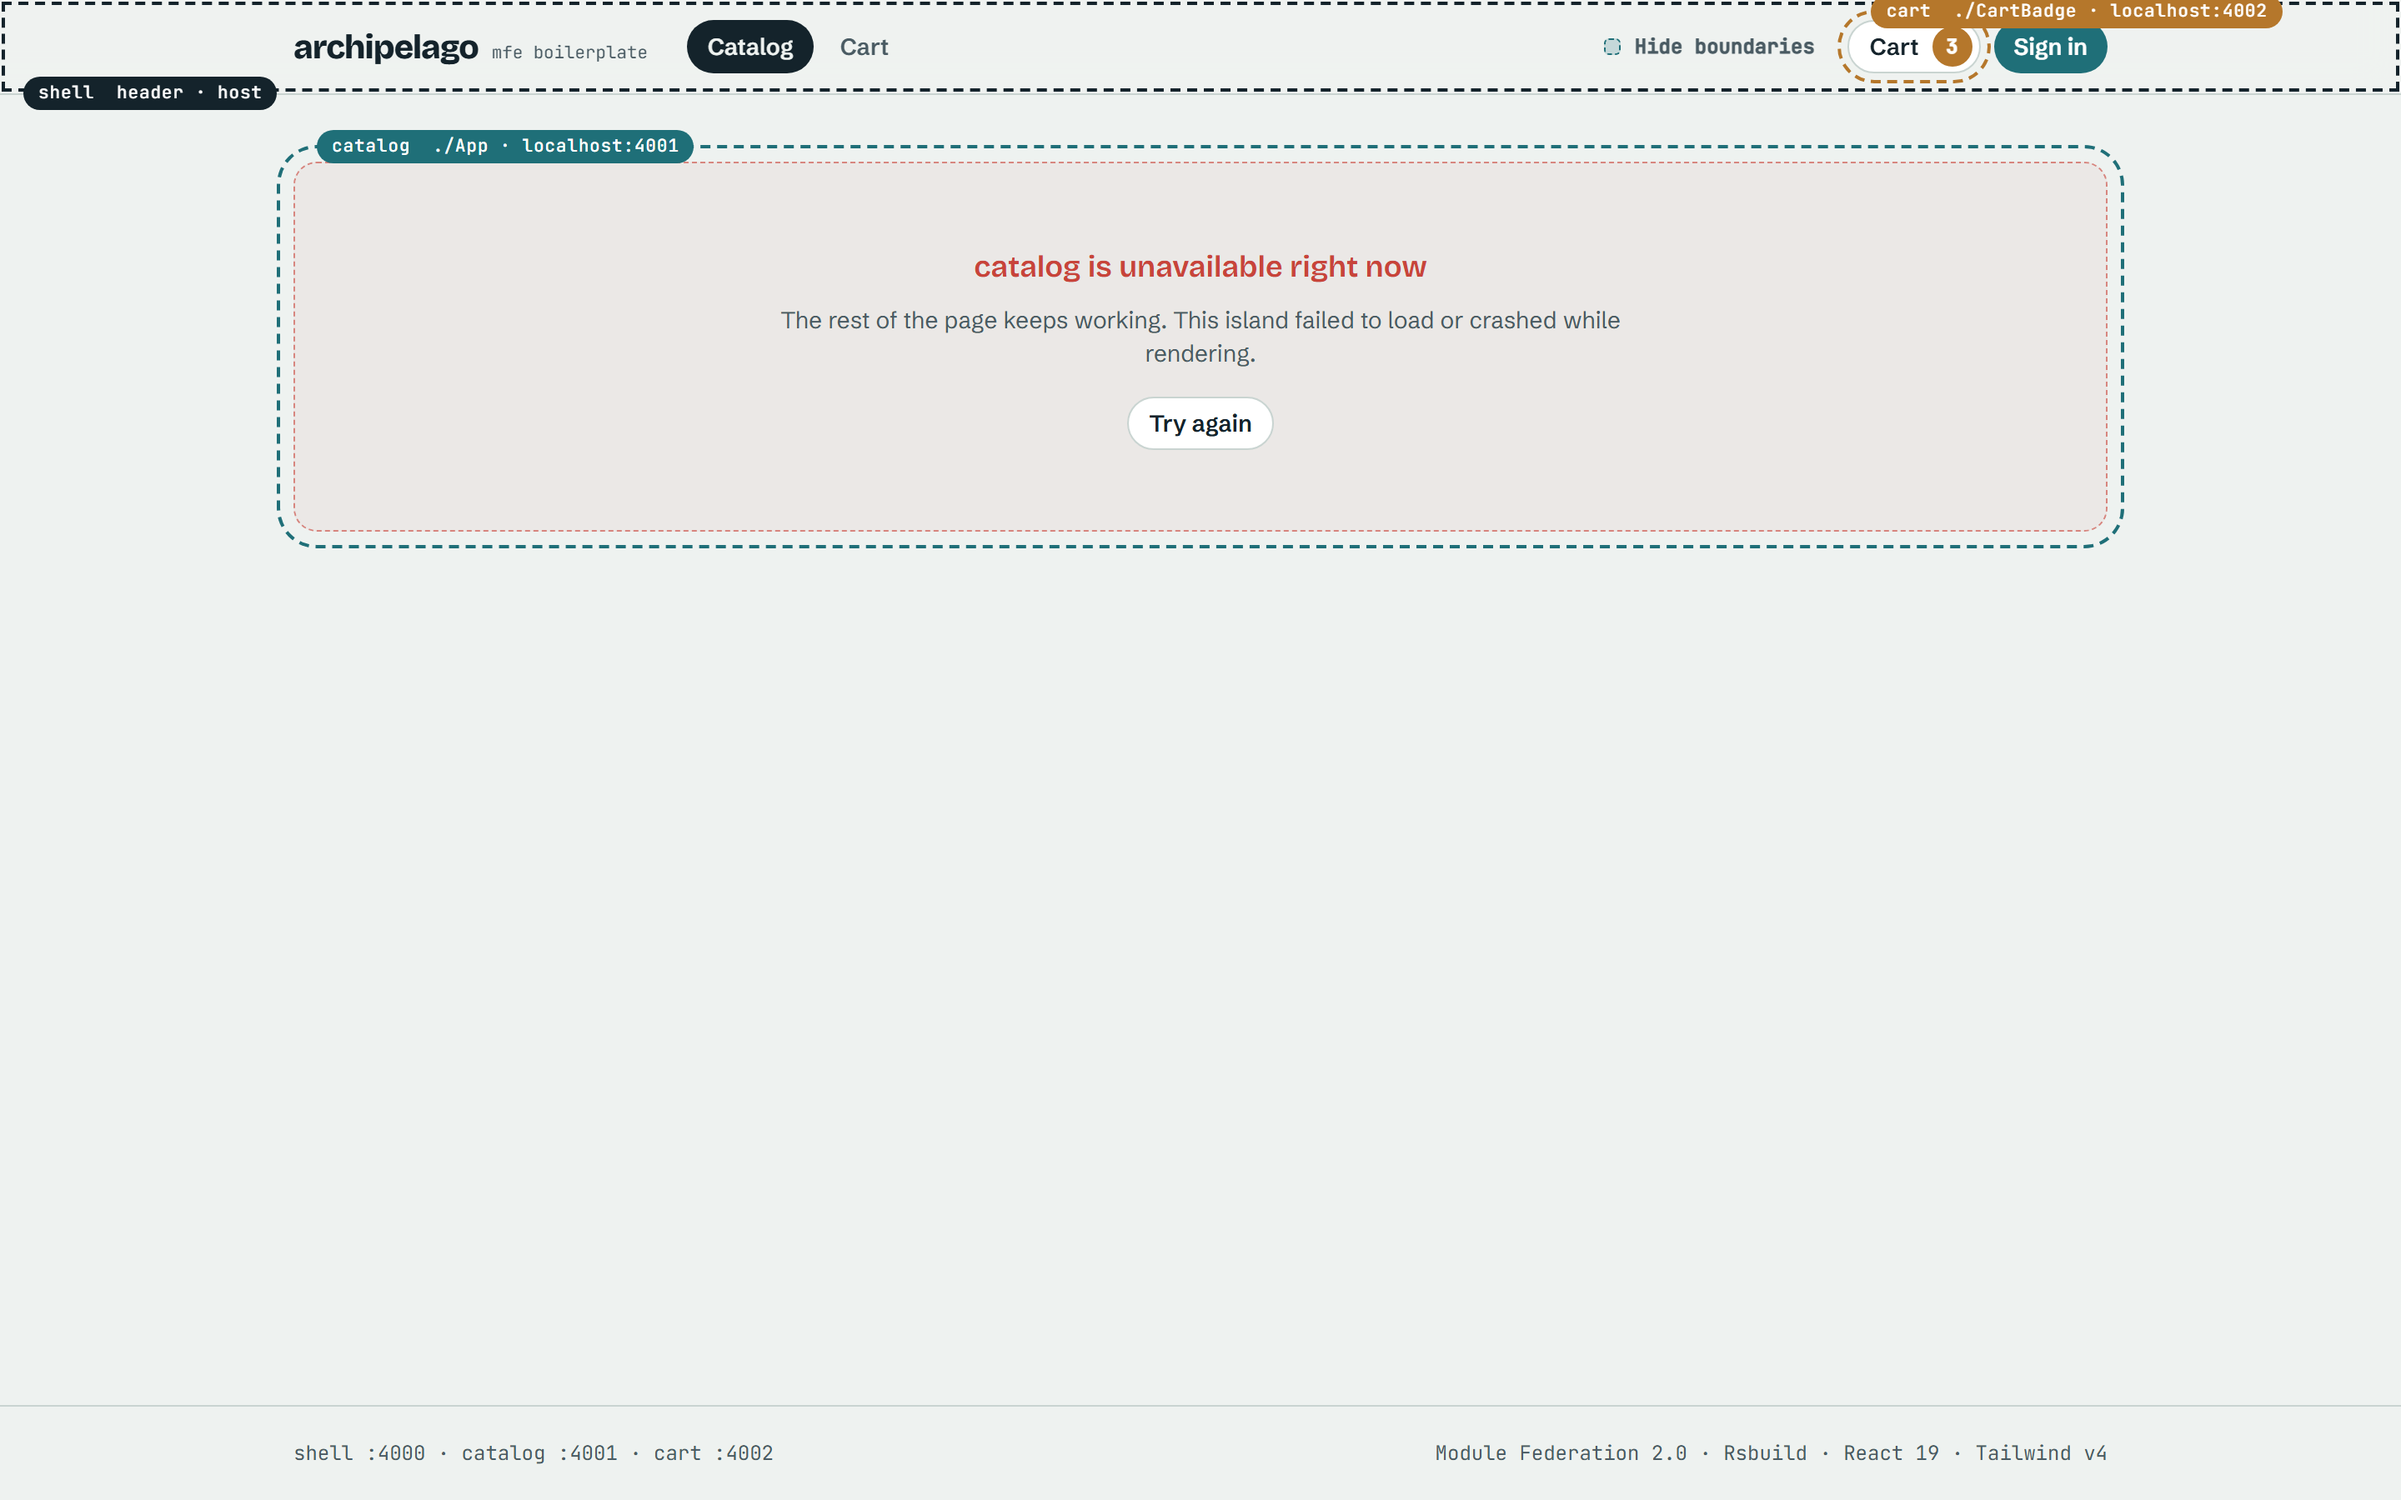
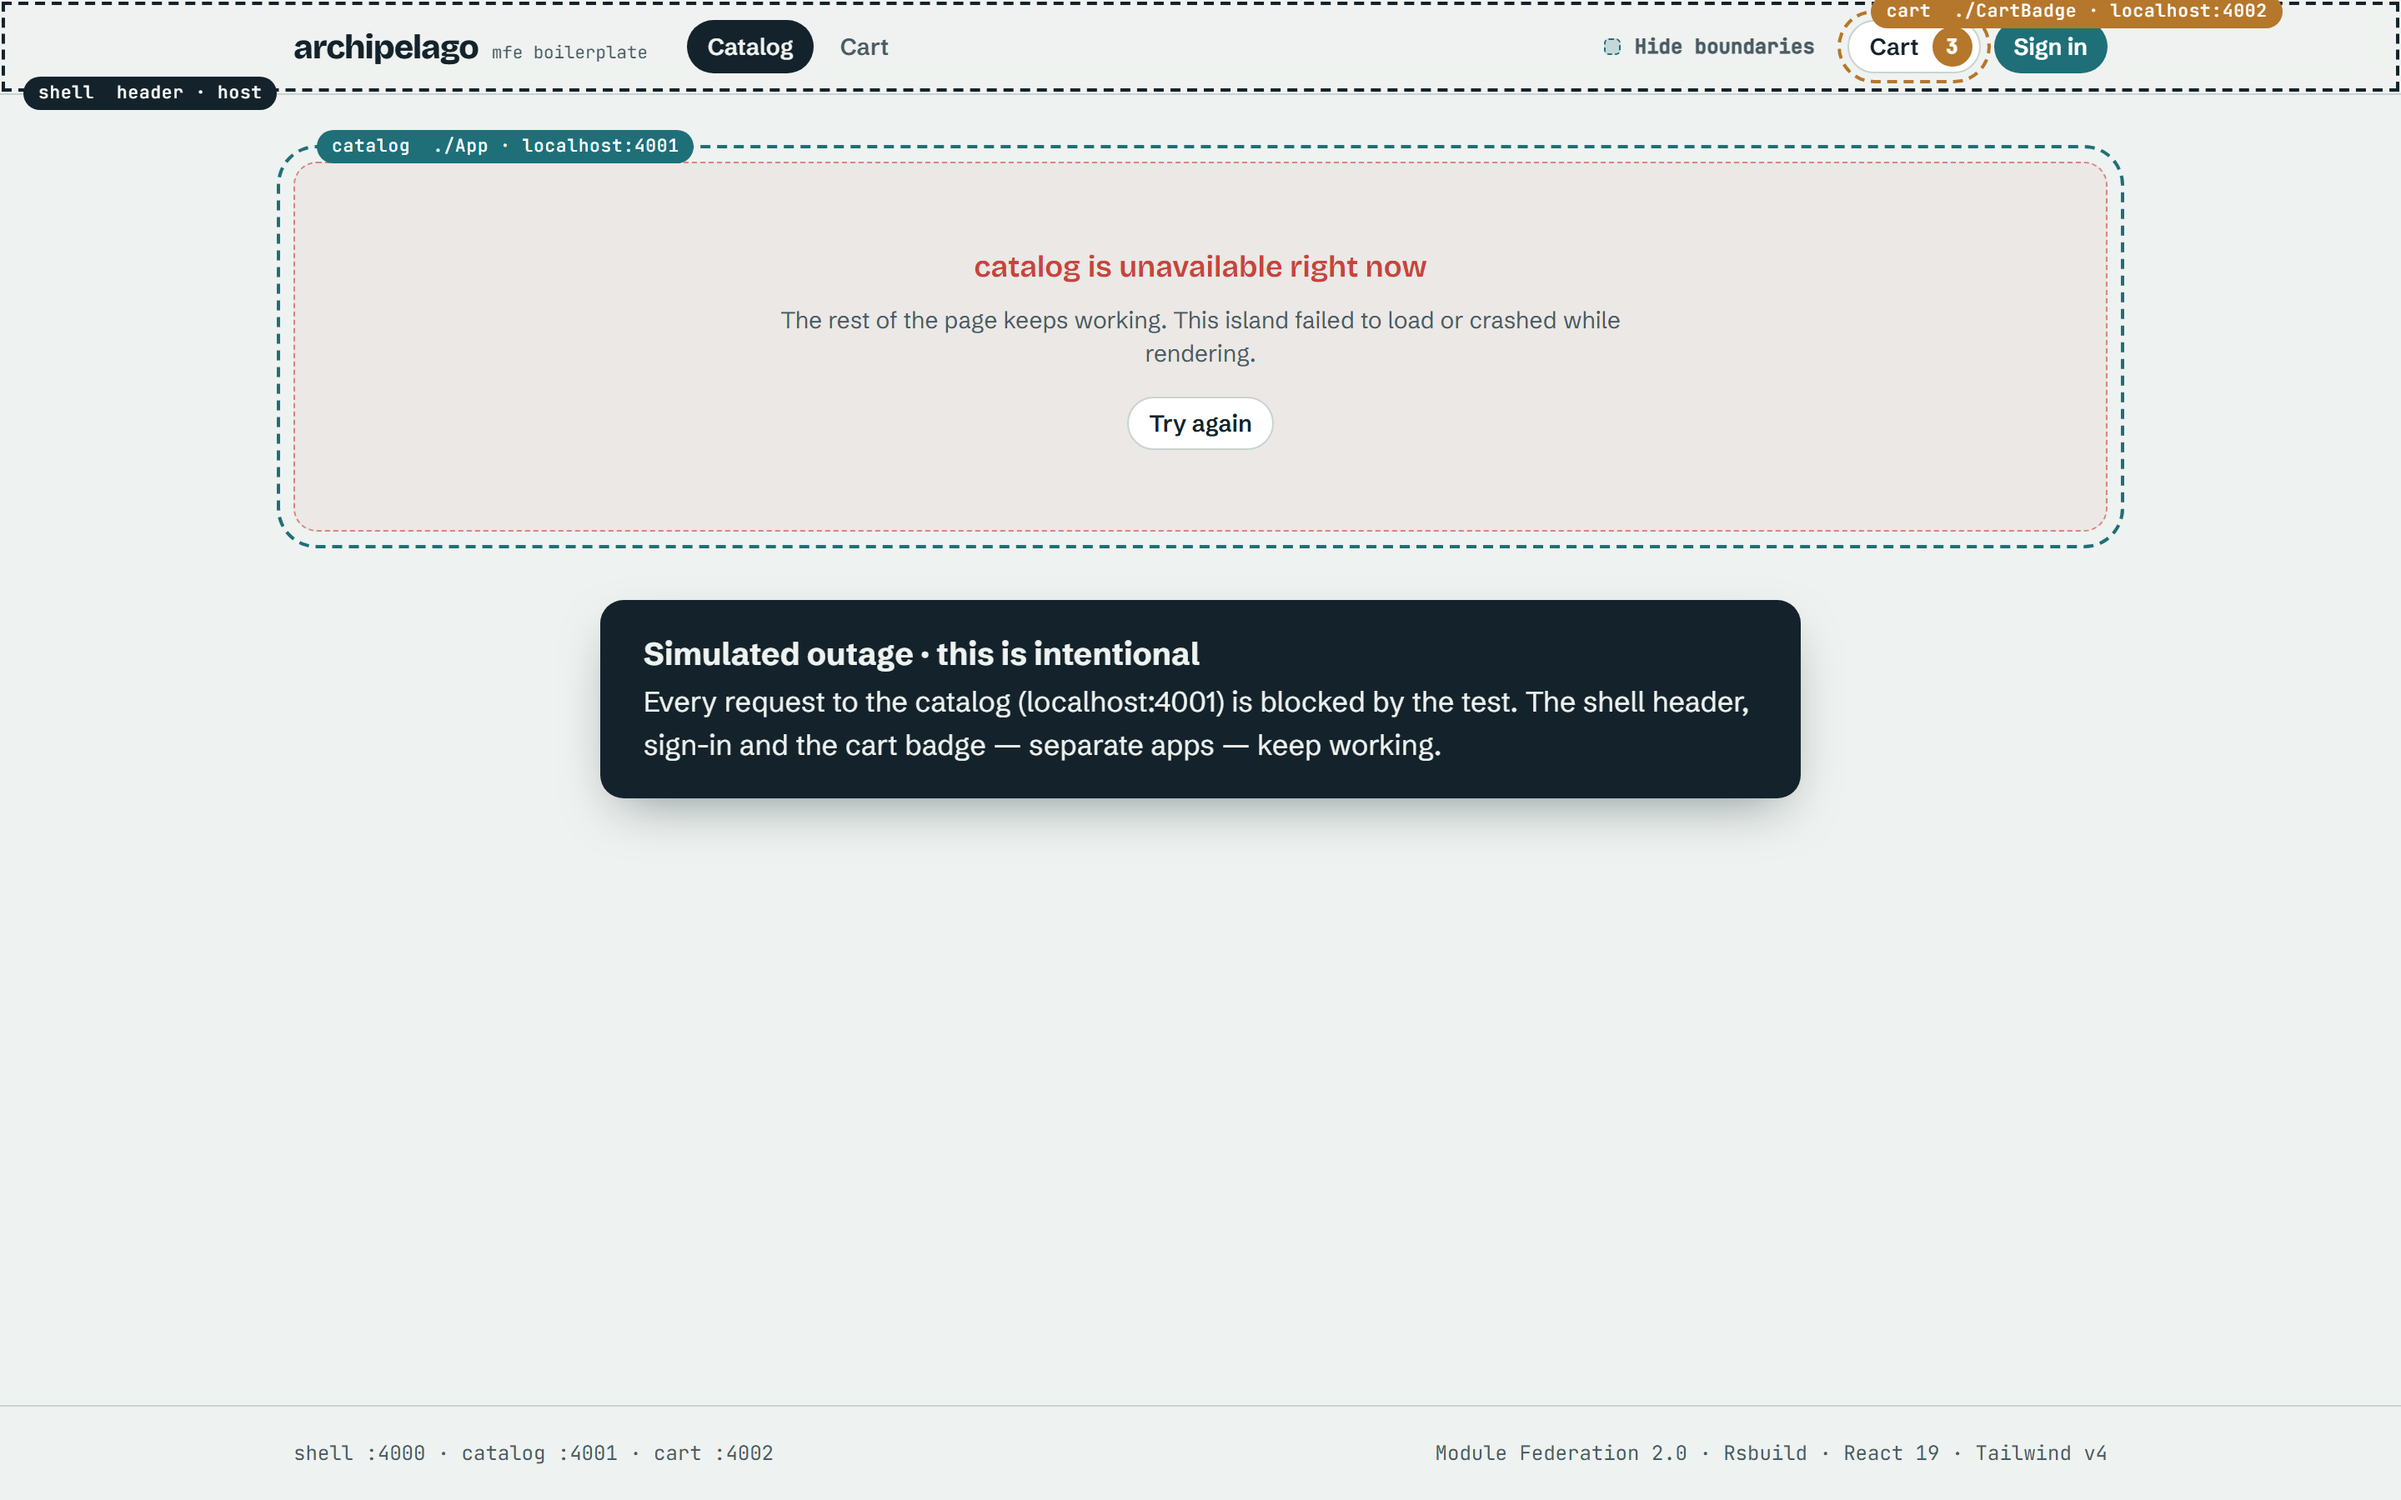
initial commit

Changed region(s): [[0.25, 0.3733, 0.75, 0.56]]

diff --git a/e2e/screenshots.spec.ts b/e2e/screenshots.spec.ts
@@ -50,6 +50,31 @@ test('resilience', async ({ page }) => {
   await page.goto('/catalog');
   await expect(page.getByRole('alert')).toBeVisible();
   await expect(page.getByTestId('cart-count')).toHaveText('3');
+
+  // Anotação só para a imagem: deixa claro que a falha é SIMULADA de propósito.
+  await page.evaluate(() => {
+    const note = document.createElement('div');
+    note.innerHTML =
+      '<strong style="display:block;font:700 19px var(--font-sans);margin-bottom:4px">Simulated outage · this is intentional</strong>' +
+      'Every request to the catalog (localhost:4001) is blocked by the test. ' +
+      'The shell header, sign-in and the cart badge — separate apps — keep working.';
+    Object.assign(note.style, {
+      position: 'fixed',
+      left: '50%',
+      top: '360px',
+      transform: 'translateX(-50%)',
+      maxWidth: '720px',
+      padding: '20px 26px',
+      borderRadius: '14px',
+      background: 'var(--color-ink)',
+      color: 'var(--color-mist)',
+      font: '400 17px/1.5 var(--font-sans)',
+      boxShadow: '0 12px 32px -12px rgb(20 35 43 / 0.5)',
+      zIndex: '100',
+    });
+    document.body.append(note);
+  });
+
   await page.evaluate(() => document.fonts.ready);
   await page.screenshot({ path: out('resilience') });
 });

diff --git a/README.pt-BR.md b/README.pt-BR.md
@@ -31,9 +31,13 @@ Clone, renomeie, apague os domínios de exemplo e fique com a arquitetura.
 
 > Clique em **Show boundaries** no header para ver qual app é dono de cada parte da página.
 
-| Home                            | Carrinho                            | Catálogo fora do ar, página de pé                      |
-| ------------------------------- | ----------------------------------- | ------------------------------------------------------ |
-| ![Home](./docs/assets/home.png) | ![Carrinho](./docs/assets/cart.png) | ![Catálogo indisponível](./docs/assets/resilience.png) |
+| Home                            | Carrinho                            | Falha simulada: catálogo bloqueado de propósito                                              |
+| ------------------------------- | ----------------------------------- | -------------------------------------------------------------------------------------------- |
+| ![Home](./docs/assets/home.png) | ![Carrinho](./docs/assets/cart.png) | ![Catálogo bloqueado de propósito; o resto da página funciona](./docs/assets/resilience.png) |
+
+A terceira imagem é um **teste de falha, não um bug**: o servidor do catálogo é bloqueado de
+propósito para mostrar que só a área dele falha, enquanto o shell e o carrinho continuam
+funcionando. Faça o teste você mesmo em [docs/07-resiliencia.md](./docs/07-resiliencia.md).
 
 ## Sumário
 

diff --git a/README.md b/README.md
@@ -30,9 +30,13 @@ Clone it, rename it, delete the demo domains and keep the architecture.
 
 > Press **Show boundaries** in the header to see which app owns each part of the page.
 
-| Home                                 | Cart                                 | Catalog down, page still up                                |
-| ------------------------------------ | ------------------------------------ | ---------------------------------------------------------- |
-| ![Home page](./docs/assets/home.png) | ![Cart page](./docs/assets/cart.png) | ![Catalog unavailable state](./docs/assets/resilience.png) |
+| Home                                 | Cart                                 | Simulated outage: catalog blocked on purpose                                                     |
+| ------------------------------------ | ------------------------------------ | ------------------------------------------------------------------------------------------------ |
+| ![Home page](./docs/assets/home.png) | ![Cart page](./docs/assets/cart.png) | ![Catalog intentionally blocked; the rest of the page still works](./docs/assets/resilience.png) |
+
+The third image is a **failure test, not a bug**: the catalog server is blocked on purpose to show
+that only its area fails while the shell and the cart keep working. Try it yourself in
+[docs/07-resiliencia.md](./docs/07-resiliencia.md).
 
 ## Contents
 
